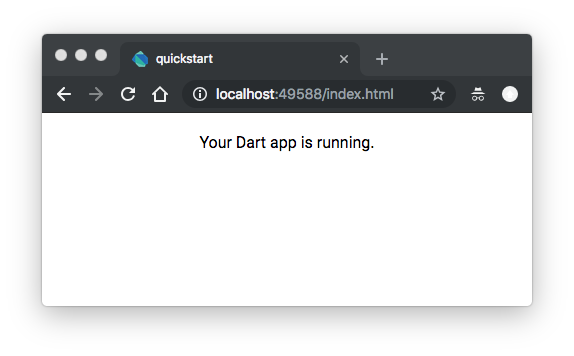
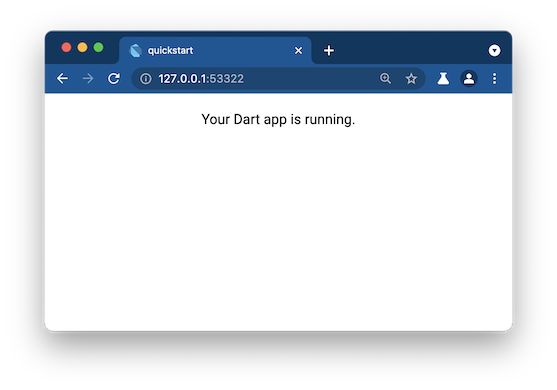
Migrate the web get started page (#3515)
* Migrate the web get started page

* Resize and optimize images

* Apply suggestions from code review

Changed region(s): [[0.061, 0.0618, 0.9461, 0.8652], [0.3357, 0.3708, 0.6715, 0.4326]]

diff --git a/src/_tutorials/web/get-started.md b/src/_tutorials/web/get-started.md
@@ -1,6 +1,7 @@
 ---
 title: "Get started: Web apps"
 description: A guide to get you quickly writing web apps in Dart.
+js: [{url: 'https://dartpad.dev/inject_embed.dart.js', defer: true}]
 ---
 
 Follow these steps to start using Dart to develop **web-only** apps.
@@ -14,29 +15,59 @@ Then you'll install Dart and build a small web app.
 
 ## 1. Play with a web app in DartPad
 
-With DartPad you can experiment with the Dart language and APIs,
+With [DartPad][DartPad documentation]
+you can experiment with the Dart language and APIs,
 no download necessary.
 
 For example, here's an embedded DartPad that lets you play with
 the code for a todo-list generator.
 Click **Run** to run the app;
-the console output appears beneath the code.
+the UI output appears to the right of the code.
 Try editing the source code—perhaps you'd like to add "horses"
-to the list of pets. To get the full DartPad experience,
-which includes the web UI that the app produces,
-<a href="{{site.dartpad}}/2a24f3f042f1c86cf91621c30adce771"
-  target="_blank" rel="noopener">open the example at dartpad.dev.</a>
+to the list of pets. 
 
 {{site.alert.note}}
   {% include dartpad-embedded-troubleshooting.md %}
 {{site.alert.end}}
 
-<iframe
-    src="{{site.dartpad-embed-html}}?id=2a24f3f042f1c86cf91621c30adce771&ga_id=play_with_a_web_app"
-    width="100%"
-    height="450px"
-    style="border: 1px solid #ccc;">
-</iframe>
+```dart:run-dartpad:mode-html:ga_id-play_with_a_web_app:null_safety-true
+{$ begin main.dart $}
+import 'dart:html';
+
+Iterable<String> thingsTodo() sync* {
+  const actions = ['Walk', 'Wash', 'Feed'];
+  const pets = ['cats', 'dogs'];
+
+  for (final action in actions) {
+    for (final pet in pets) {
+      if (pet != 'cats' || action == 'Feed') {
+        yield '$action the $pet';
+      }
+    }
+  }
+}
+
+void addTodoItem(String item) {
+  final listElement = LIElement()..text = item;
+  todoList.children.add(listElement);
+}
+
+late final UListElement todoList = querySelector('#todolist') as UListElement;
+
+void main() {
+  thingsTodo().forEach(addTodoItem);
+}
+
+{$ end main.dart $}
+{$ begin index.html $}
+<h2>A Simple To-Do List</h2>
+
+<p>Things to do:</p>
+
+<ul id="todolist">
+</ul>
+{$ end index.html $}
+```
 
 More information:
 
@@ -62,7 +93,6 @@ $ dart pub global activate webdev
 Although using an IDE is optional, we highly recommend using one.
 For a list of available IDEs, see the
 [overview of editors & debuggers][].
-
 
 
 ## 4. Create a web app
@@ -114,29 +144,39 @@ Let's customize the app you just created.
  1. Copy the `thingsTodo()` function from the DartPad above
     to the `web/main.dart` file.
 
- 2. In the `main()` function, initialize the `output` element using
-    `thingsTodo()`:
+ 2. Add the `newLI()` function (as shown below).
+    It creates a new `LIElement` containing the specified `String`.
 
     {% prettify dart tag=pre+code %}
-    void main() {
-      Element output = querySelector('#output');
-      [!output.children.addAll(thingsTodo().map(newLI));!]
-    }
+    Iterable<String> thingsTodo() sync* { ... }
 
     [!LIElement newLI(String itemText) => LIElement()..text = itemText;!]
 
-    [!Iterable<String> thingsTodo() sync* { ... }!]
+    void main() { ... }
     {% endprettify %}
 
- 3. Save your changes.
+ 3. In the `main()` function, initialize the `output` element using
+    `thingsTodo()`:
 
- 4. The webdev tool automatically rebuilds your app.
+    {% prettify dart tag=pre+code %}
+    Iterable<String> thingsTodo() sync* { ... }
+
+    LIElement newLI(String itemText) => LIElement()..text = itemText;
+
+    void main() {
+      querySelector('#output')?[!.children.addAll(thingsTodo().map(newLI));!]
+    }
+    {% endprettify %}
+
+ 4. Save your changes.
+
+ 5. The webdev tool automatically rebuilds your app.
     Refresh the app's browser window.
     Now your simple Dart app has a todo list!
     It should look something like this:<br>
     ![Running the revised app]({% asset bare-bones-todo.png @path %}){:width="500"}
 
- 5. Optionally, improve the formatting by editing `web/styles.css`,
+ 6. Optionally, improve the formatting by editing `web/styles.css`,
     then reload the app to check your changes.
 
     {% prettify css tag=pre+code %}
